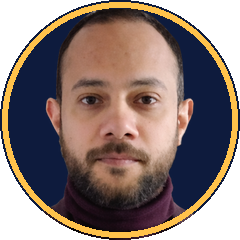
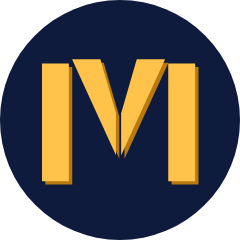
faceless-reel: Mechanica exploded-M mark replaces the photo badge
The account is now Mechanica (@mechanica.explained) and fully faceless.
New profile picture (1080 px), video badge (240 px round, transparent
corners) and vector mark.

Claude-Session: https://claude.ai/code/session_016pLipHz3ykhdRtvTDsmyfN

diff --git a/.claude/skills/faceless-reel/SKILL.md b/.claude/skills/faceless-reel/SKILL.md
@@ -23,8 +23,10 @@ bash scripts/setup.sh          # pip packages, GSAP 3.13, Kokoro voice model (~3
 
 Needs ffmpeg, Node and Playwright with Chromium. Set `FACELESS_REEL_MODELS` to keep the model elsewhere.
 
-`assets/badge.png` (the round photo next to the handle, used by default) and `assets/profile-picture.png`
-belong to @hours_back.ai. Pass `--badge` to use another, and `--handle` for the account name.
+`assets/badge.png` (the round mark next to the handle, used by default), `assets/profile-picture.png` and
+the vector `assets/mark.svg` belong to Mechanica (@mechanica.explained): an "exploded" M of four amber
+parts on navy. The account is fully faceless, so never put a person's photo in the badge. Pass `--badge`
+to use another, and `--handle` for the account name.
 
 ## The pipeline (run in this order, never skip a gate)
 
